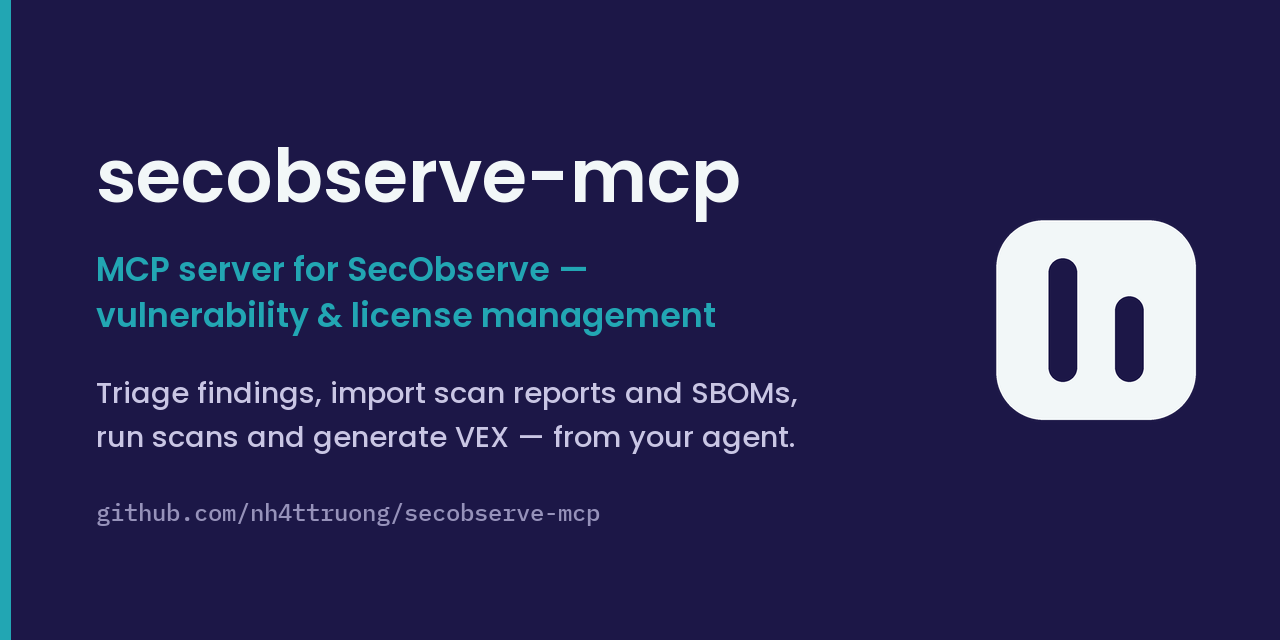
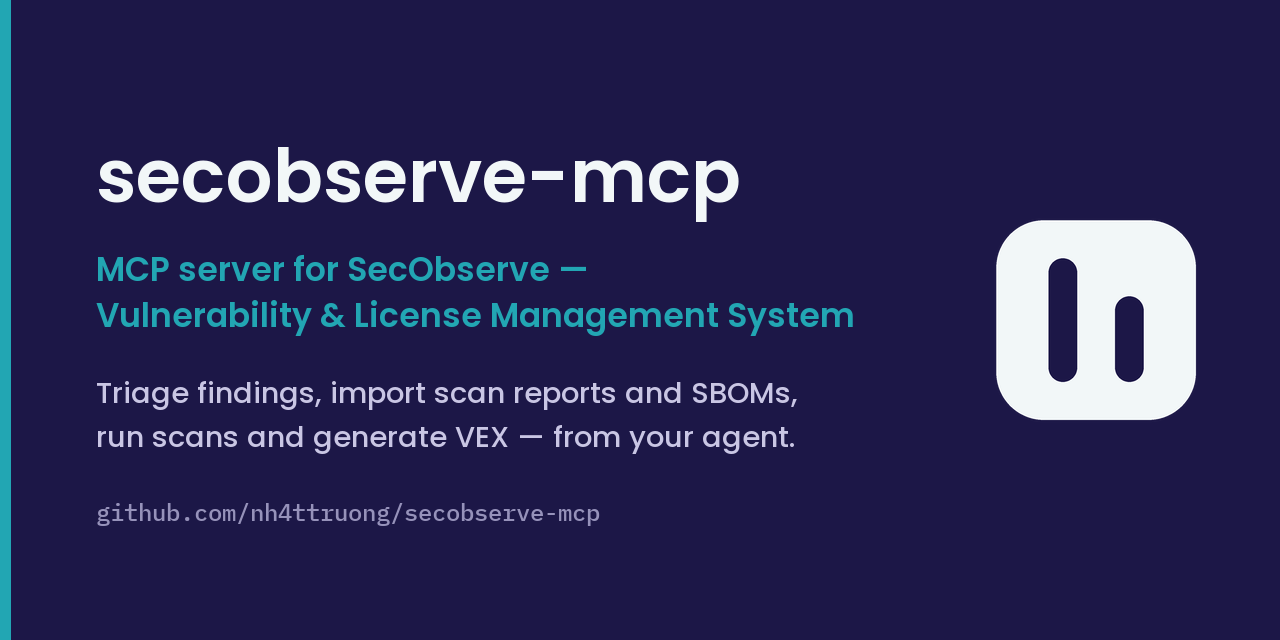
fix(assets): update social card description for clarity

Changed region(s): [[0.0625, 0.4688, 0.6875, 0.5312]]

diff --git a/docs/assets/make_assets.py b/docs/assets/make_assets.py
@@ -63,7 +63,7 @@ def social_card() -> None:
 
     d.text((96, 124), "secobserve-mcp", font=font(WORDMARK, 74), fill=PAPER)
     d.text((96, 246), "MCP server for SecObserve —", font=font(WORDMARK, 33), fill=ACCENT)
-    d.text((96, 292), "vulnerability & license management", font=font(WORDMARK, 33), fill=ACCENT)
+    d.text((96, 292), "Vulnerability & License Management System", font=font(WORDMARK, 33), fill=ACCENT)
     d.text((96, 372), "Triage findings, import scan reports and SBOMs,", font=font(BODY, 29), fill=MUTED)
     d.text((96, 416), "run scans and generate VEX — from your agent.", font=font(BODY, 29), fill=MUTED)
 
